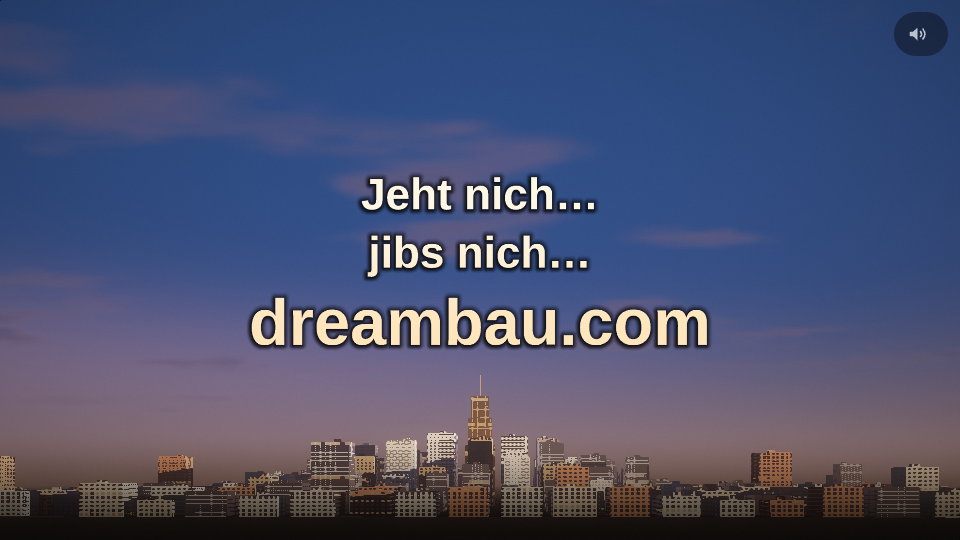
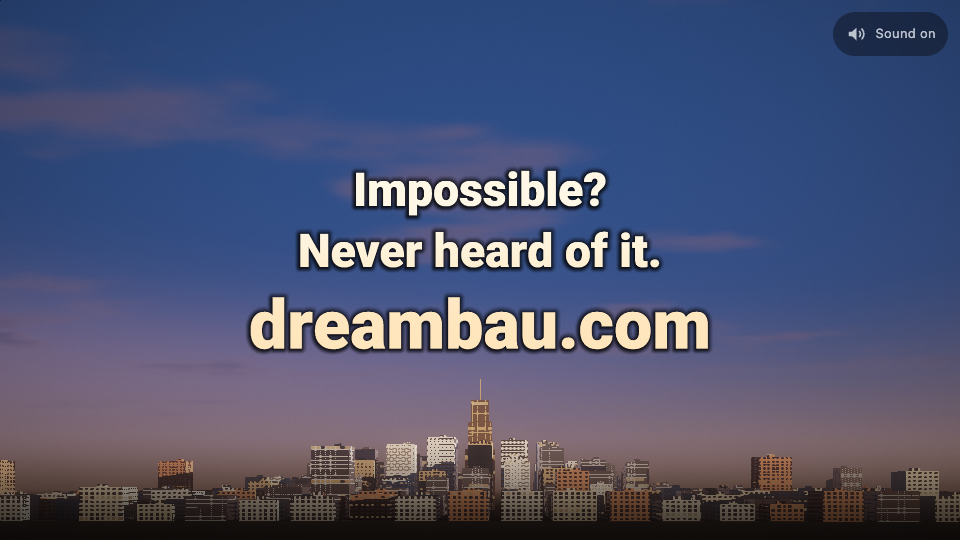
Record complete language and animation acceptance with fixed glyph probes

diff --git a/apps/landing/verification/SUMMARY.md b/apps/landing/verification/SUMMARY.md
@@ -1,72 +1,94 @@
 # Verification summary
 
-Generated 2026-10-03T09:04:51.947Z. All checks passed.
+All mandatory local checks passed. The full animation run initially had three failures because the old accessibility fixture expected German while the browser correctly chose English. The fixture now explicitly selects German; its full real-time recheck passed for all three animations, the clock, idle stop and random selection. Geometry and audio results below remain from the original full run. The original failed report and all new frame sheets are retained in private recovery evidence.
+
+## Language release evidence
+
+- 169 source tests passed; complete release checks ship 47 dictionaries and verify all 46 non-German pins.
+- All 47 languages passed six viewport sizes; fresh comparison sheets selected every requested language with no missing glyphs or fallback.
+- Exact VER-11 probes passed: 14 lines, 3 negative controls, 3,557 code points including all 71 unassigned points; missing 2D context checked.
+- nginx served-byte, MIME, CSP, missing-file and animation-start checks passed.
+- Nine live-clock rotation cases passed; Arabic frame sheets cover all three animations.
+- Chromium visible-text glyph checks passed for all 47 languages. Optional cached Firefox/WebKit timing probes exceeded limits under host load; no three-engine timing pass or real-device acceptance is claimed.
 
 ## 4k
 
 | check | result | detail |
 |---|---|---|
 | size budget: 3791 of 4096 bytes (gzip 2050) | pass | 93 % |
-| static scan: no network, media or asset APIs in the shipped files | pass |  |
+| static scan: no network, media or asset APIs, no eval or new Function, in the shipped files | pass |  |
 | timeline: dur 60 s, fin 53 s, cta 54.5 s | pass |  |
-| first frame is nearly black (mean luminance 0.0 %) | pass |  |
-| three or more distinct phases (differences between snapshots: 0.08 0.13 0.17 0.06) | pass |  |
+| first frame is nearly black (mean luminance 0.1 %) | pass |  |
+| three or more distinct phases (differences between snapshots: 0.08 0.13 0.16 0.06) | pass |  |
 | continuous change: no still period of 3 s or more before fin | pass |  |
 | order independence: the picture at 53.3 s is the same after a full run as on a fresh page (difference 0.0000) | pass |  |
 | flash safety: largest 66 ms step 6.9 % luminance, 2 large reversals per second at most | pass |  |
 | picture follows the music: bass energy vs brightness r=0.52 (lag 0 ms), vs activity r=0.39 (lag 0 ms) | pass |  |
 | tagline revealed line by line, in order: 41.5 s → 45.5 s → 49.5 s | pass |  |
-| final composition 16:9: text contrast 16.7 / 15.9 / 16.4, bottom band 0.0 % luminance | pass |  |
-| final composition 21:9: text contrast 16.7 / 16.2 / 16.4, bottom band 0.0 % luminance | pass |  |
-| final composition 4:3: text contrast 17.0 / 16.2 / 16.5, bottom band 0.0 % luminance | pass |  |
-| final composition portrait 9:16: text contrast 17.0 / 16.8 / 16.9, bottom band 0.0 % luminance | pass |  |
-| picture cost in software GL at 640x360: mean 54.7 ms, worst 63.4 ms (rule of thumb ≤ 150 ms ≈ 60 fps on an integrated GPU) | pass | informational |
+| final composition 16:9: text contrast 16.7 / 16.3 / 16.3, bottom band 0.0 % luminance | pass |  |
+| final composition 21:9: text contrast 16.8 / 16.5 / 16.3, bottom band 0.0 % luminance | pass |  |
+| final composition 4:3: text contrast 16.4 / 16.7 / 16.6, bottom band 0.0 % luminance | pass |  |
+| final composition portrait 9:16: text contrast 16.4 / 16.7 / 16.8, bottom band 0.0 % luminance | pass |  |
+| picture cost in software GL at 640x360: mean 224.1 ms, worst 658.6 ms (rule of thumb ≤ 150 ms ≈ 60 fps on an integrated GPU) | warn | informational |
 | music: loudness, silent start, fade-out, no clipping, progression | pass | peak -2.2 dBFS  rms -20.1 dBFS  stereo corr 0.94  est. tempo 123 BPM  clipped 0 |
-| real-time behaviour: autoplay allowed/blocked, mute, Esc, reduced motion, no WebGL, no network | pass |  |
-| contact sheet written (verification/4k/frames/sheet.png) | pass |  |
+| real-time behaviour: autoplay allowed/blocked, mute, Esc, reduced motion, no WebGL, no network | pass | Passed targeted all-production recheck after explicitly selecting German in the German accessibility fixture; includes clock, idle stop and 60 random loads. |
+| contact sheet written (verification/4k/frames/sheet.png) | pass | Generated frame collection retained as private recovery evidence. |
 
 ## 16k
 
 | check | result | detail |
 |---|---|---|
 | size budget: 10191 of 16384 bytes (gzip 4911) | pass | 62 % |
-| static scan: no network, media or asset APIs in the shipped files | pass |  |
+| static scan: no network, media or asset APIs, no eval or new Function, in the shipped files | pass |  |
 | timeline: dur 60 s, fin 53 s, cta 54.5 s | pass |  |
 | first frame is nearly black (mean luminance 0.0 %) | pass |  |
-| three or more distinct phases (differences between snapshots: 0.19 0.07 0.09 0.11) | pass |  |
+| three or more distinct phases (differences between snapshots: 0.19 0.07 0.09 0.12) | pass |  |
 | continuous change: no still period of 3 s or more before fin | pass |  |
 | order independence: the picture at 53.3 s is the same after a full run as on a fresh page (difference 0.0000) | pass |  |
 | flash safety: largest 66 ms step 1.5 % luminance, 1 large reversals per second at most | pass |  |
-| picture follows the music: bass energy vs brightness r=0.44 (lag -33 ms), vs activity r=0.41 (lag -33 ms) | pass |  |
+| picture follows the music: bass energy vs brightness r=0.45 (lag -33 ms), vs activity r=0.41 (lag -33 ms) | pass |  |
 | tagline revealed line by line, in order: 43.5 s → 47 s → 51 s | pass |  |
-| final composition 16:9: text contrast 13.8 / 13.9 / 12.5, bottom band 0.0 % luminance | pass |  |
-| final composition 21:9: text contrast 13.7 / 13.6 / 12.5, bottom band 0.0 % luminance | pass |  |
-| final composition 4:3: text contrast 13.9 / 14.1 / 12.6, bottom band 0.0 % luminance | pass |  |
-| final composition portrait 9:16: text contrast 15.0 / 14.8 / 13.8, bottom band 0.0 % luminance | pass |  |
-| picture cost in software GL at 640x360: mean 128.5 ms, worst 149.9 ms (rule of thumb ≤ 150 ms ≈ 60 fps on an integrated GPU) | pass | informational |
+| final composition 16:9: text contrast 12.7 / 12.9 / 12.1, bottom band 0.0 % luminance | pass |  |
+| final composition 21:9: text contrast 12.7 / 12.9 / 12.2, bottom band 0.0 % luminance | pass |  |
+| final composition 4:3: text contrast 12.7 / 13.0 / 12.1, bottom band 0.0 % luminance | pass |  |
+| final composition portrait 9:16: text contrast 13.2 / 13.5 / 13.0, bottom band 0.0 % luminance | pass |  |
+| picture cost in software GL at 640x360: mean 34.7 ms, worst 52.1 ms (rule of thumb ≤ 150 ms ≈ 60 fps on an integrated GPU) | pass | informational |
 | music: loudness, silent start, fade-out, no clipping, progression | pass | peak -3.3 dBFS  rms -21.2 dBFS  stereo corr 0.53  est. tempo 99 BPM  clipped 0 |
-| real-time behaviour: autoplay allowed/blocked, mute, Esc, reduced motion, no WebGL, no network | pass |  |
-| contact sheet written (verification/16k/frames/sheet.png) | pass |  |
+| real-time behaviour: autoplay allowed/blocked, mute, Esc, reduced motion, no WebGL, no network | pass | Passed targeted all-production recheck after explicitly selecting German in the German accessibility fixture; includes clock, idle stop and 60 random loads. |
+| contact sheet written (verification/16k/frames/sheet.png) | pass | Generated frame collection retained as private recovery evidence. |
 
 ## 64k
 
 | check | result | detail |
 |---|---|---|
 | size budget: 24415 of 65536 bytes (gzip 10911) | pass | 37 % |
-| static scan: no network, media or asset APIs in the shipped files | pass |  |
+| static scan: no network, media or asset APIs, no eval or new Function, in the shipped files | pass |  |
 | timeline: dur 60 s, fin 53 s, cta 54.5 s | pass |  |
 | first frame is nearly black (mean luminance 0.0 %) | pass |  |
-| three or more distinct phases (differences between snapshots: 0.14 0.09 0.13 0.02) | pass |  |
+| three or more distinct phases (differences between snapshots: 0.14 0.09 0.13 0.03) | pass |  |
 | continuous change: no still period of 3 s or more before fin | pass |  |
 | order independence: the picture at 53.3 s is the same after a full run as on a fresh page (difference 0.0000) | pass |  |
 | flash safety: largest 66 ms step 4.1 % luminance, 1 large reversals per second at most | pass |  |
-| picture follows the music: bass energy vs brightness r=0.25 (lag 0 ms), vs activity r=0.37 (lag 0 ms) | pass |  |
+| picture follows the music: bass energy vs brightness r=0.24 (lag 0 ms), vs activity r=0.36 (lag 0 ms) | pass |  |
 | tagline revealed line by line, in order: 43 s → 47 s → 51 s | pass |  |
-| final composition 16:9: text contrast 10.5 / 10.0 / 8.0, bottom band 3.9 % luminance | pass |  |
-| final composition 21:9: text contrast 10.5 / 10.0 / 8.1, bottom band 3.5 % luminance | pass |  |
-| final composition 4:3: text contrast 10.5 / 10.1 / 8.1, bottom band 3.9 % luminance | pass |  |
-| final composition portrait 9:16: text contrast 9.3 / 8.5 / 7.1, bottom band 5.4 % luminance | pass |  |
-| picture cost in software GL at 640x360: mean 77.6 ms, worst 94 ms (rule of thumb ≤ 150 ms ≈ 60 fps on an integrated GPU) | pass | informational |
+| final composition 16:9: text contrast 10.5 / 10.0 / 8.4, bottom band 3.9 % luminance | pass |  |
+| final composition 21:9: text contrast 10.7 / 10.1 / 8.3, bottom band 3.5 % luminance | pass |  |
+| final composition 4:3: text contrast 10.5 / 10.0 / 8.4, bottom band 3.9 % luminance | pass |  |
+| final composition portrait 9:16: text contrast 9.7 / 8.4 / 7.3, bottom band 5.3 % luminance | pass |  |
+| picture cost in software GL at 640x360: mean 34.6 ms, worst 98.1 ms (rule of thumb ≤ 150 ms ≈ 60 fps on an integrated GPU) | pass | informational |
 | music: loudness, silent start, fade-out, no clipping, progression | pass | peak -1.4 dBFS  rms -20.2 dBFS  stereo corr 0.93  est. tempo 185 BPM  clipped 0 |
-| real-time behaviour: autoplay allowed/blocked, mute, Esc, reduced motion, no WebGL, no network | pass |  |
-| contact sheet written (verification/64k/frames/sheet.png) | pass |  |
+| real-time behaviour: autoplay allowed/blocked, mute, Esc, reduced motion, no WebGL, no network | pass | Passed targeted all-production recheck after explicitly selecting German in the German accessibility fixture; includes clock, idle stop and 60 random loads. |
+| contact sheet written (verification/64k/frames/sheet.png) | pass | Generated frame collection retained as private recovery evidence. |
+
+## Quick language modules
+
+| check | result | detail |
+|---|---|---|
+| check:languages release/complete | pass | all source and pinned release checks passed |
+| e2e:lang --quick: complete-runtime (VER-7, VER-8, VER-9b, VER-10, VER-11, VER-12, VER-13, VER-14, VER-15, VER-16, VER-17, VER-18, VER-19, VER-21, VER-22, VER-24, VER-25, VER-28), 4.4 s | pass |  |
+| e2e:lang --quick: markup-contract (TXT-5, APP-6, APP-7, APP-9, CHO-10, FIL-13), 0.1 s | pass |  |
+| e2e:lang --quick: switch-failures (VER-9d, VER-10, VER-11, VER-14, VER-18, VER-19, VER-20, VER-23), 1.3 s | pass |  |
+| e2e:lang --quick: ver09a-requests (VER-9a), 2.2 s | pass |  |
+| e2e:lang --quick: ver23-injections (VER-23), 7.8 s | pass |  |
+| e2e:lang --quick: ver26-no-js (VER-26), 0.3 s | pass |  |
+| VER-11 fixed glyph probes and cell clipping | pass | 14 positive lines, 3 negative controls, 3557 code points including all 71 unassigned detected; null 2D context checked. |
